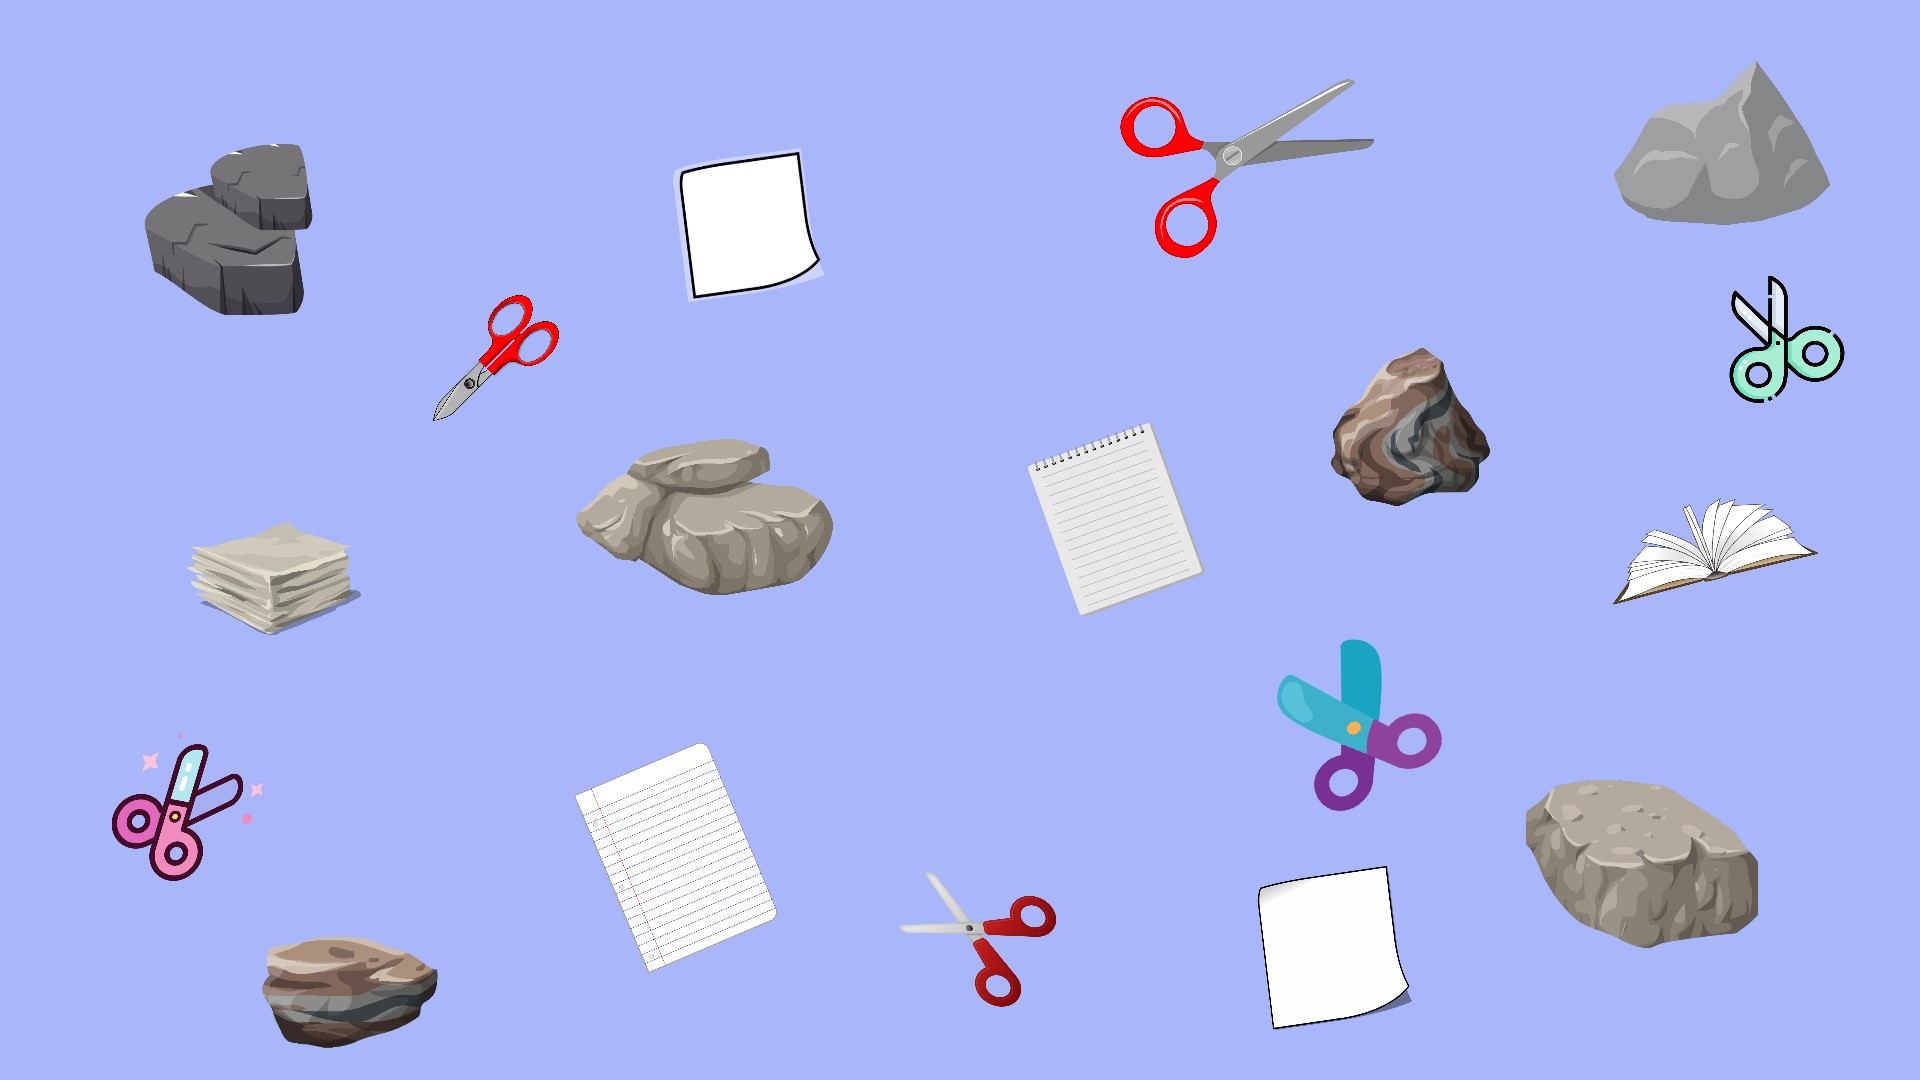
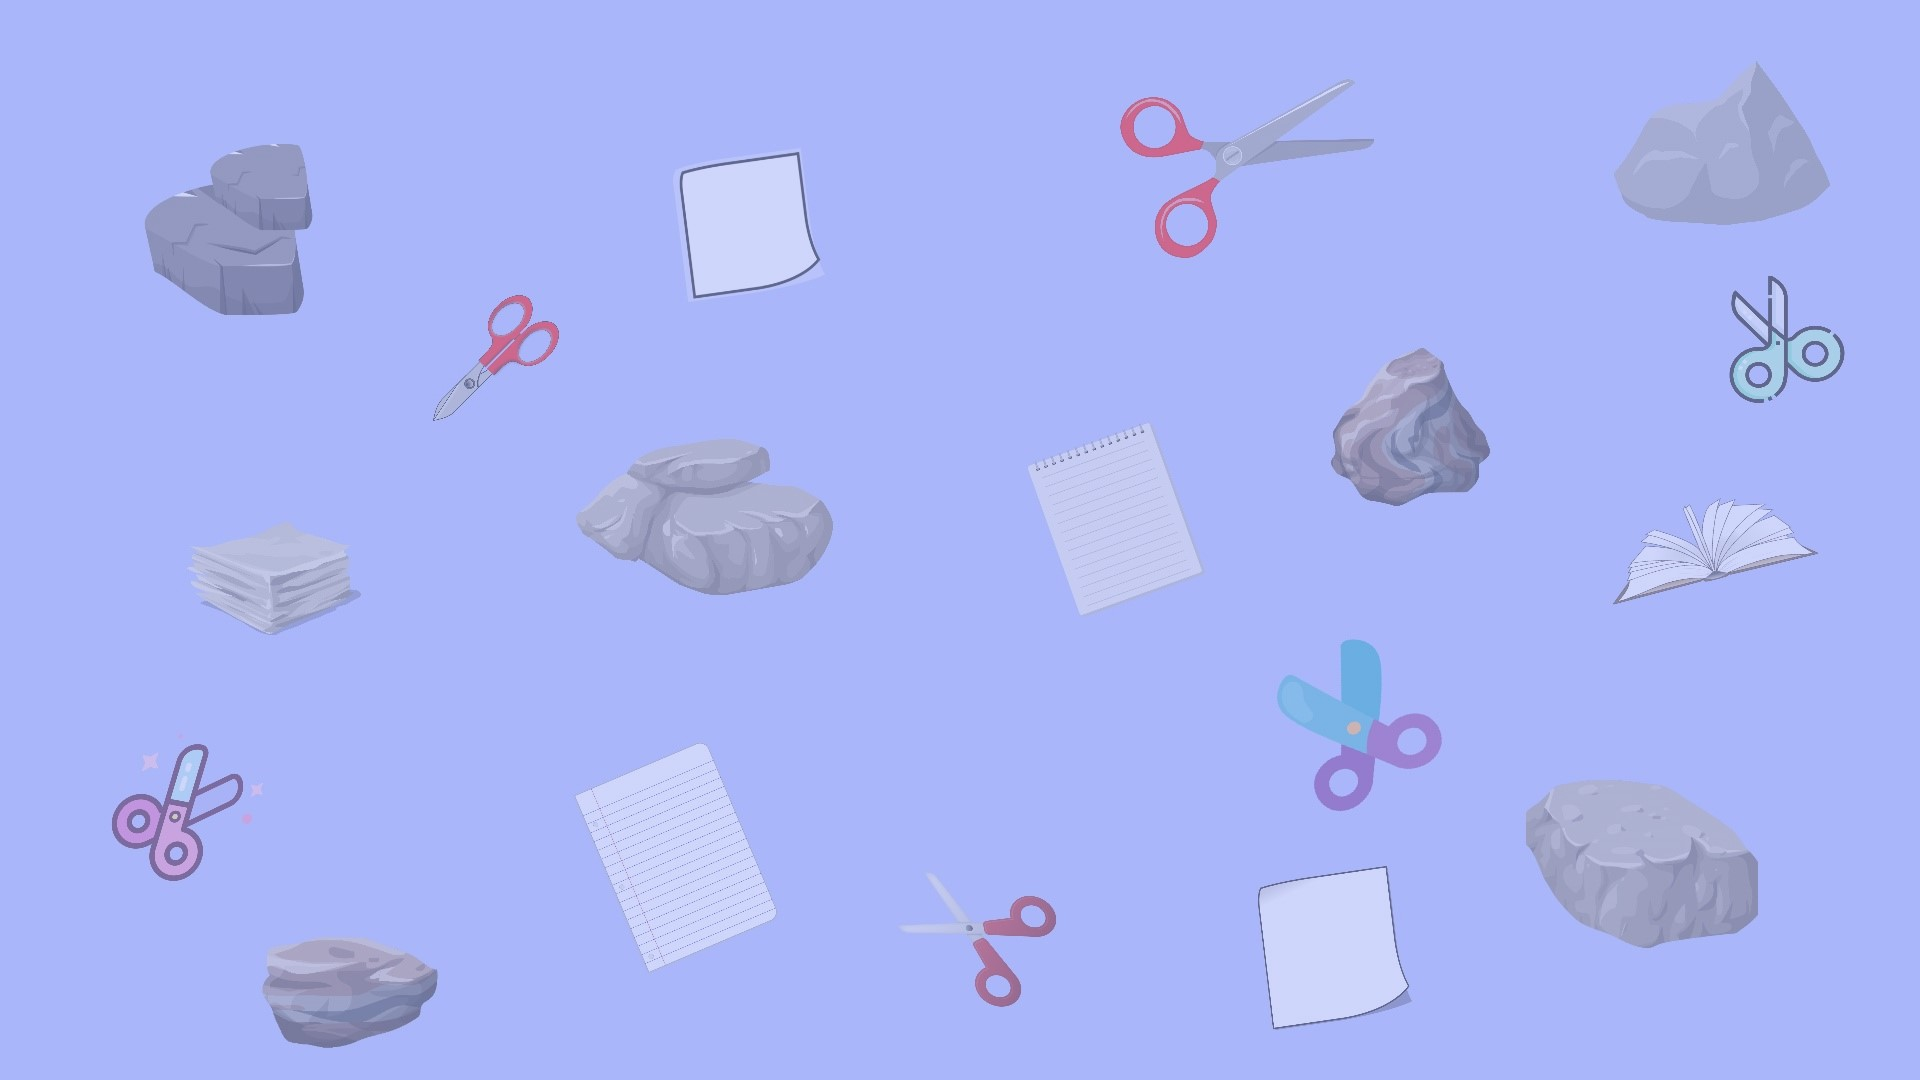
fix background

diff --git a/static/background.css b/static/background.css
@@ -1,26 +1,6 @@
 body {
     margin: 0;
-    background: #aab6fa;
     font-family: 'Comfortaa', cursive;
-}
-
-.background {
-    position: absolute;
-    width: 100vw;
-    height: 100vh;
-    top: 0;
-    left: 0;
-    overflow: hidden;
-    z-index: -1;
-}
-
-.background img {
-    position: absolute;
-    top: 0;
-    left: 0;
-    width: 100vw;
-    height: 100vh;
-    overflow: hidden;
-    z-index: -1;
-    opacity: .5;
+    background-size: cover;
+    background: #aab6fa url('/static/background.jpg') no-repeat fixed center;
 }

diff --git a/templates/index.html b/templates/index.html
@@ -8,10 +8,15 @@
     <script src="/static/socket.js"></script>
     <link rel="stylesheet" href="/static/background.css"/>
     <link href="https://fonts.googleapis.com/css?family=Comfortaa" rel="stylesheet">
+    <script src="https://cdn.jsdelivr.net/npm/vue@2.6.14/dist/vue.js"></script>
 </head>
 
 <body>
-{% include 'background.html' %}
+
+<script>
+    let app = new Vue();
+</script>
+
 {% include 'nickname_input.html' %}
 {% include 'battleground.html' %}
 {% include 'play_again.html' %}
